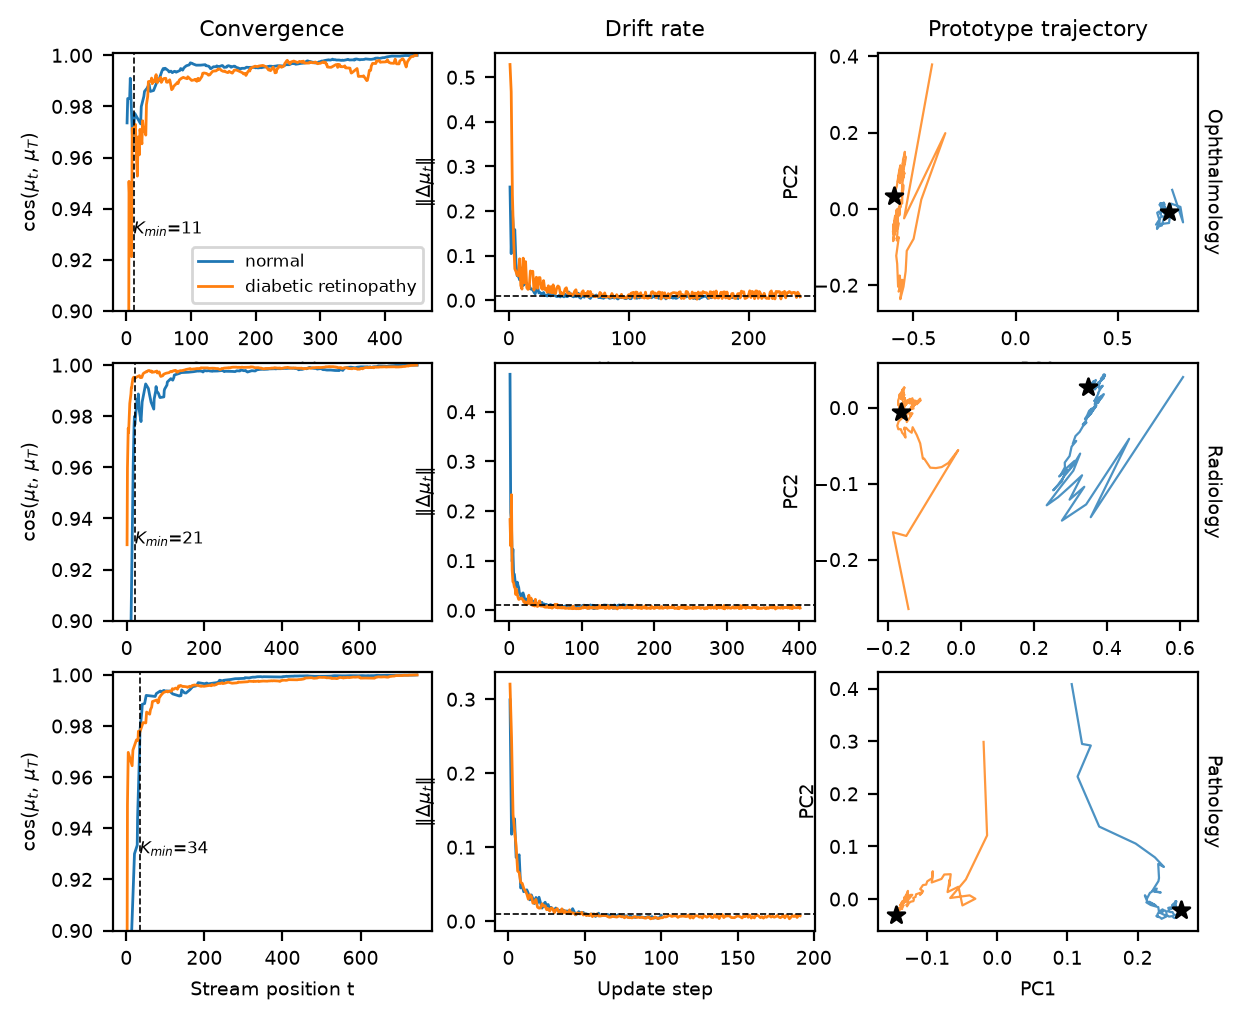
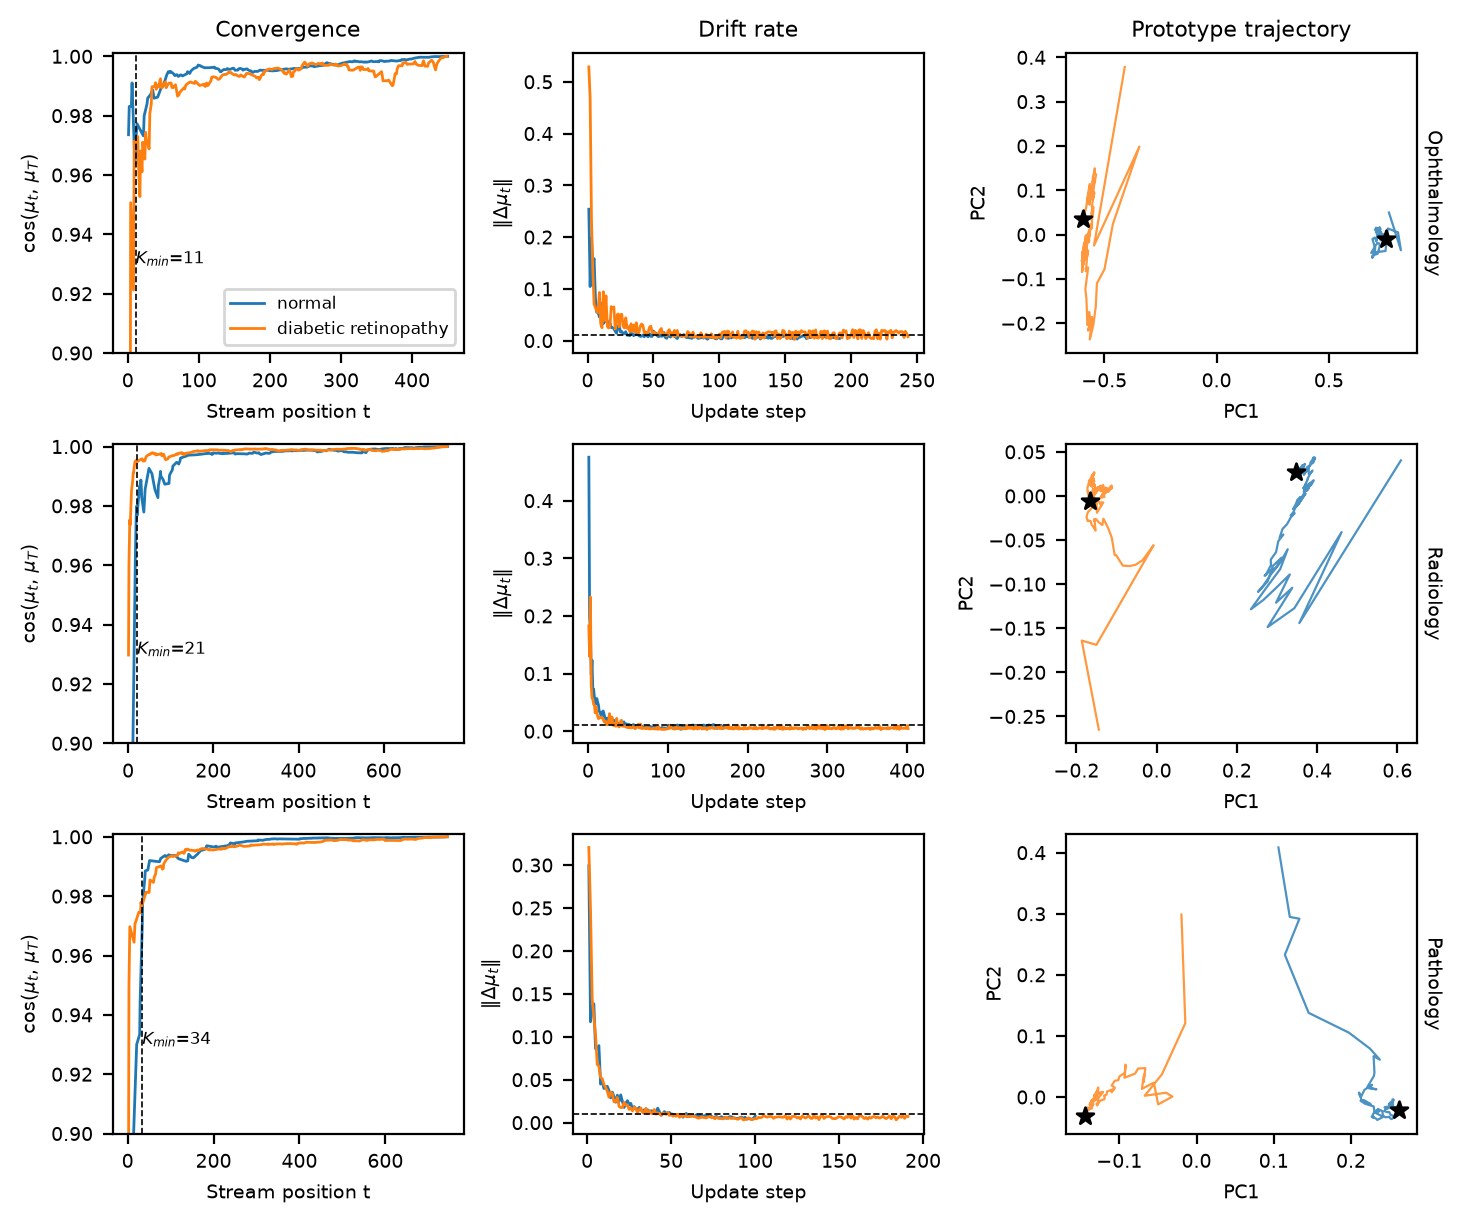
Figure layout fixes; teaser panel (b) uses the PROTON+ bank

Changed region(s): [[0.0, 0.0, 1.0, 1.0]]

diff --git a/proton/experiments/figures.py b/proton/experiments/figures.py
@@ -44,7 +44,7 @@ def overlap_fraction(s_id, s_ood):
 def fig1_blind_spot(benchmarks=("ophthalmology", "radiology", "pathology")):
     rows = [b for b in benchmarks if os.path.exists(os.path.join(ROOT, "outputs", "features",
                                                                   f"{b}__{load_benchmark(b).vlm}.npz"))]
-    fig, axes = plt.subplots(len(rows), 3, figsize=(7.0, 2.1 * len(rows)), squeeze=False)
+    fig, axes = plt.subplots(len(rows), 3, figsize=(7.2, 2.3 * len(rows)), squeeze=False, constrained_layout=True)
     stats = {}
     for r, bname in enumerate(rows):
         bench = load_benchmark(bname)
@@ -63,7 +63,8 @@ def fig1_blind_spot(benchmarks=("ophthalmology", "radiology", "pathology")):
         ax = axes[r, 1]
         pool, n_id = P.pool("covariate")
         order, is_ood = make_stream(n_id, len(pool) - n_id, seed=0)
-        run = run_proton_stream(P, pool, order)
+        from ..online import proton_plus_config
+        run = run_proton_stream(P, pool, order, config=proton_plus_config())
         m = run["calibrated"]
         ax.scatter(-run["s_base"][m & (is_ood == 0)], run["s_proto"][m & (is_ood == 0)], s=4, c=COL["id0"], label="ID", alpha=.6)
         ax.scatter(-run["s_base"][m & (is_ood == 1)], run["s_proto"][m & (is_ood == 1)], s=4, c=COL["covariate"], label="Covariate OOD", alpha=.6)
@@ -71,9 +72,9 @@ def fig1_blind_spot(benchmarks=("ophthalmology", "radiology", "pathology")):
         caught = float(np.mean(run["s_proto"][m & (is_ood == 1)] > thr))
         ax.axhline(thr, ls="--", lw=.6, c="k")
         ax.text(0.02, 0.95, f"{100 * caught:.0f}% cov. caught\n(at 95% ID TNR on $S_{{proto}}$)", transform=ax.transAxes, va="top", fontsize=6)
-        ax.set_xlabel("max softmax (MCM)"); ax.set_ylabel("$S_{proto}$ (prototype distance)")
+        ax.set_xlabel("max softmax (MCM)"); ax.set_ylabel("$S_{proto}$ (PROTON+ bank)")
         ax.set_title("(b) MCM vs prototype dist." if r == 0 else "")
-        if r == 0: ax.legend(loc="lower left")
+        if r == 0: ax.legend(loc="upper left", bbox_to_anchor=(0.0, 0.78), frameon=False)
         # (c) t-SNE
         ax = axes[r, 2]
         try:
@@ -90,11 +91,11 @@ def fig1_blind_spot(benchmarks=("ophthalmology", "radiology", "pathology")):
                 mm = lab == name
                 ax.scatter(Z[mm, 0], Z[mm, 1], s=3, c=COL[name], label=names[name], alpha=.7)
             ax.set_xticks([]); ax.set_yticks([])
-            if r == 0: ax.legend(loc="best", markerscale=2)
+            if r == 0: ax.legend(loc="upper center", bbox_to_anchor=(0.5, -0.02), ncol=3, markerscale=2, frameon=False, fontsize=5.5)
         except Exception as e:  # pragma: no cover
             ax.text(.5, .5, f"t-SNE failed: {e}", ha="center")
         ax.set_title("(c) t-SNE embeddings" if r == 0 else "")
-        ax.text(1.02, 0.5, f"{bname.title()}\n({bench.vlm})", transform=ax.transAxes, rotation=270, va="center", fontsize=7)
+        ax.text(1.02, 0.5, f"{bname.title()}\n({ {'flair': 'FLAIR', 'unimedclip': 'UniMed-CLIP', 'quiltnet': 'QuiltNet'}[bench.vlm] })", transform=ax.transAxes, rotation=270, va="center", fontsize=7)
         stats[bname] = {"overlap": ov, "cov_caught_at_95tnr": caught}
     _save(fig, "fig1_blind_spot")
     os.makedirs(RES_DIR, exist_ok=True)
@@ -106,7 +107,7 @@ def fig1_blind_spot(benchmarks=("ophthalmology", "radiology", "pathology")):
 def fig3a_convergence(benchmarks=("ophthalmology", "radiology", "pathology")):
     rows = [b for b in benchmarks if os.path.exists(os.path.join(ROOT, "outputs", "features",
                                                                   f"{b}__{load_benchmark(b).vlm}.npz"))]
-    fig, axes = plt.subplots(len(rows), 3, figsize=(7.0, 1.9 * len(rows)), squeeze=False)
+    fig, axes = plt.subplots(len(rows), 3, figsize=(7.2, 2.0 * len(rows)), squeeze=False, constrained_layout=True)
     stats = {}
     for r, bname in enumerate(rows):
         bench = load_benchmark(bname)
@@ -162,7 +163,7 @@ def fig3a_convergence(benchmarks=("ophthalmology", "radiology", "pathology")):
 def fig3b_grid(benchmarks=("ophthalmology", "radiology", "pathology")):
     rows = [(b, os.path.join(RES_DIR, b, "fig3b_gamma_M.json")) for b in benchmarks]
     rows = [(b, p) for b, p in rows if os.path.exists(p)]
-    fig, axes = plt.subplots(1, len(rows), figsize=(2.4 * len(rows), 2.3), squeeze=False)
+    fig, axes = plt.subplots(1, len(rows), figsize=(2.6 * len(rows), 2.3), squeeze=False, constrained_layout=True)
     for ax, (b, p) in zip(axes[0], rows):
         d = json.load(open(p))
         g = np.array(d["delta_auroc"])
@@ -178,7 +179,7 @@ def fig3b_grid(benchmarks=("ophthalmology", "radiology", "pathology")):
         if gi is not None and mj is not None:
             ax.scatter(mj, gi, marker="*", s=60, c="gold", edgecolor="k", lw=.4)
         ax.set_xlabel("M"); ax.set_ylabel(r"$\gamma$")
-        ax.set_title(f"{b.title()} ({load_benchmark(b).vlm})")
+        ax.set_title(f"{b.title()} ({ {'flair': 'FLAIR', 'unimedclip': 'UniMed-CLIP', 'quiltnet': 'QuiltNet'}[load_benchmark(b).vlm] })")
         plt.colorbar(im, ax=ax, fraction=0.046, pad=0.04).set_label(r"$\Delta$AUROC vs MCM", fontsize=6)
     _save(fig, "fig3b_gamma_M")
 
